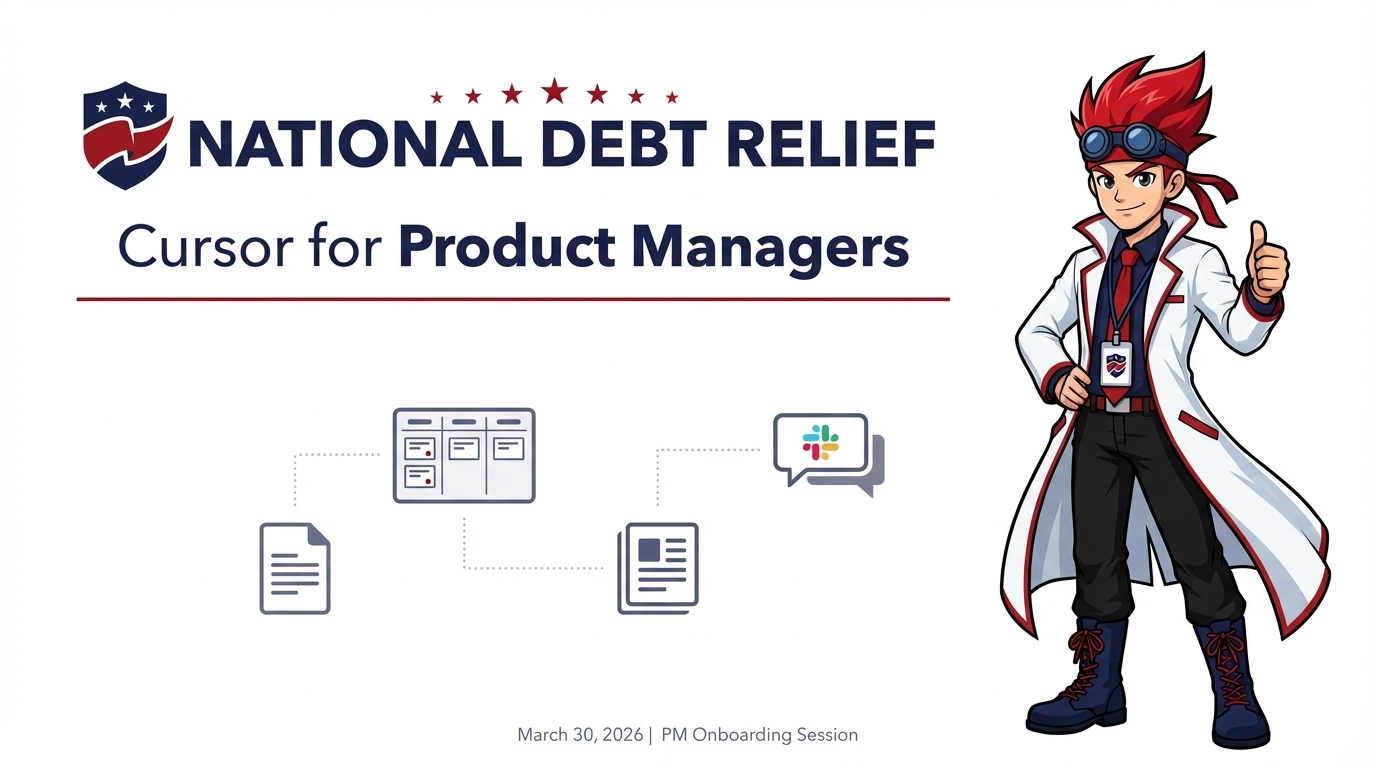
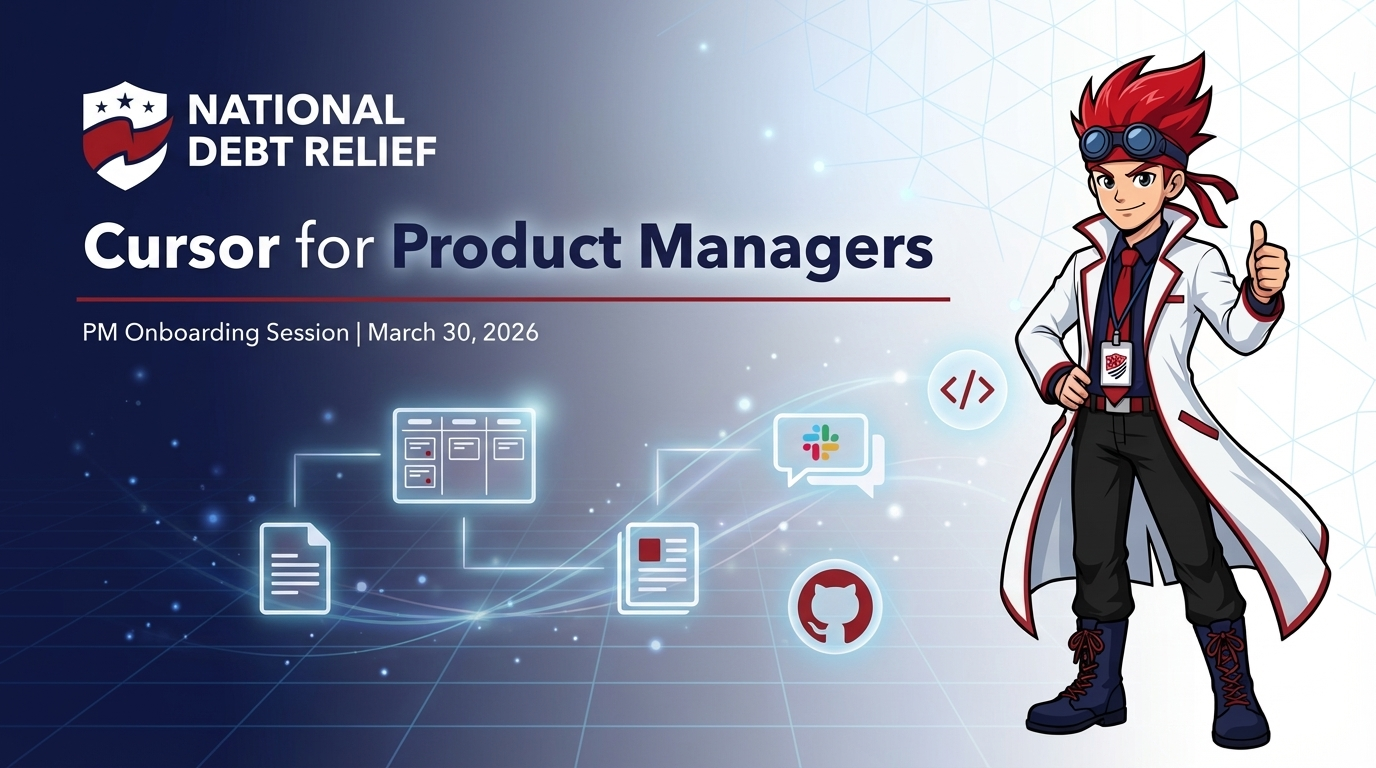
Redesign cover image, add cover generation skill
- Cover: navy-to-white gradient, NDR logo from reference (not invented),
  glowing tool icons with connection lines, mascot with shield badge,
  premium SaaS launch aesthetic
- New command: generate-cover-image.md with logo accuracy rules
- Updated rule: NDR Logo Assets section enforcing reference-only reproduction

Made-with: Cursor

diff --git a/.cursor/commands/generate-cover-image.md b/.cursor/commands/generate-cover-image.md
@@ -1,0 +1,103 @@
+---
+description: Generate an NDR-branded demo cover slide image using Nano Banana MCP. Uses the casual Boom Tech mascot, official NDR logos, and brand guidelines.
+---
+
+## User Input
+
+```text
+$ARGUMENTS
+```
+
+## Instructions
+
+Generate a polished, branded cover slide image using the Nano Banana MCP (`user-nanobanana` server).
+
+Before generating, read:
+- `.cursor/rules/boom-tech-character.mdc` for the canonical character design
+- Brand color reference: Deep Navy Blue `#1F2147`, Flag Red `#A31921`, white `#FFFFFF`
+
+### Logo and Typography Rules
+
+The NDR logo MUST NOT be invented or approximated. Always pass the actual logo files as `reference_images` so Gemini reproduces them accurately:
+
+- **Full wordmark logo**: `/Users/kelly.cruz/Documents/devRoot/BTNDRMASTER/NDR-FRONTENDS/BTAssist/PMDEMOASSIST/brandguide/ndrlogo.svg`
+  - Contains: "NATIONAL DEBT RELIEF" wordmark in navy `#1F2147`, red flag/banner element in `#A31921`, decorative stars, horizontal rule, and "DEBT RELIEF" subtitle
+- **Shield logo**: `/Users/kelly.cruz/Documents/devRoot/BTNDRMASTER/NDR-FRONTENDS/BTAssist/PMDEMOASSIST/brandguide/registered-trademark-shield-ndr.svg`
+  - Contains: shield shape in navy `#1F2147` with red `#A31921` flag accent and decorative stars. Registered trademark symbol.
+
+Do NOT describe the logo from memory. Instead, instruct the prompt to "reproduce the NDR logo exactly as provided in the reference images" and rely on the reference_images to carry the visual.
+
+### Typography
+
+- Font: Avenir Next (the NDR brand typeface)
+- Headings: bold, navy `#1F2147`
+- Subtitles: medium weight, navy `#1F2147` or gray `#667085`
+- Never use serif fonts or handwritten styles
+
+### Build the Cover Prompt
+
+Extract from user input:
+- **Title**: default "Cursor for Product Managers" unless user specifies otherwise
+- **Subtitle/date**: default "March 30, 2026 | PM Onboarding Session"
+- **Style notes**: any user preferences for layout or energy level
+
+Construct the prompt:
+
+```
+Create a visually rich 16:9 presentation cover slide. The design should feel polished,
+energetic, and professional — not plain or minimal.
+
+TOP SECTION: Reproduce the NDR logo exactly as shown in the reference images — the full
+'NATIONAL DEBT RELIEF' wordmark with the shield element, stars, and red flag/banner accent.
+Place it prominently at the top left or top center. Do not invent or approximate the logo.
+
+TITLE: Below the logo, display '[TITLE]' in bold navy blue (#1F2147) text, large and
+prominent. Use clean sans-serif typography (Avenir Next style).
+
+VISUAL ENERGY: Add depth to the composition with:
+- A subtle gradient or geometric pattern background using light blue (#D1E9FF) to white,
+  or a faint tech-grid/circuit pattern in very light navy
+- Floating translucent tool icons (Jira board, Confluence page, code brackets, Slack bubble,
+  GitHub octocat silhouette) arranged in a flowing arc or constellation pattern
+- Soft glowing connection lines between the icons suggesting integration
+- Subtle particle/dot effects for a modern tech feel
+
+CHARACTER: On the right third of the image, the Boom Tech mascot character in the casual
+pose. Character details: bright spiky red hair with red headband, steampunk goggles with
+navy blue frames on forehead, white labcoat with red accent trim open showing red necktie
+over dark shirt, black pants, navy combat boots with red laces. Single lanyard employee
+badge around neck showing only the NDR shield logo (no text on badge, just the shield).
+No duplicate badges. No weapon. Confident stance, welcoming gesture (thumbs up or open
+hand). The character should feel integrated into the design, not pasted on.
+
+FOOTER: Small text at bottom: '[SUBTITLE_DATE]' in gray (#667085).
+
+Color palette: deep navy blue (#1F2147), flag red (#A31921), light blue (#D1E9FF),
+white (#FFFFFF). The overall feel should be a premium SaaS product launch slide
+blended with the anime character personality.
+```
+
+### Call Nano Banana
+
+Use `CallMcpTool` with server `user-nanobanana` and tool `gemini_generate_image`:
+
+- `prompt`: the constructed prompt
+- `aspect_ratio`: `"16:9"`
+- `conversation_id`: `"pm-demo-char"`
+- `use_image_history`: `true`
+- `reference_images`: always include ALL FOUR:
+  - `/Users/kelly.cruz/Documents/devRoot/BTNDRMASTER/NDR-FRONTENDS/BTAssist/PMDEMOASSIST/artifactgen/images/character/00-boom-tech-ndr-mascot-casual.png`
+  - `/Users/kelly.cruz/Documents/devRoot/BTNDRMASTER/NDR-FRONTENDS/BTAssist/PMDEMOASSIST/LOGO_DESIGN.3b081599.png`
+  - `/Users/kelly.cruz/Documents/devRoot/BTNDRMASTER/NDR-FRONTENDS/BTAssist/PMDEMOASSIST/brandguide/ndrlogo.svg`
+  - `/Users/kelly.cruz/Documents/devRoot/BTNDRMASTER/NDR-FRONTENDS/BTAssist/PMDEMOASSIST/brandguide/registered-trademark-shield-ndr.svg`
+- `output_path`: `images/00-demo-cover.png`
+
+### Post-Generation
+
+Verify:
+- NDR logo matches the reference (shield + wordmark + stars + flag accent)
+- Logo is NOT invented or approximated — it must come from the reference images
+- Character matches canonical casual design (single lanyard shield badge, no weapon)
+- Composition has visual energy (not a flat plain white slide)
+- Typography is clean sans-serif, navy and gray
+- NDR brand colors present throughout
